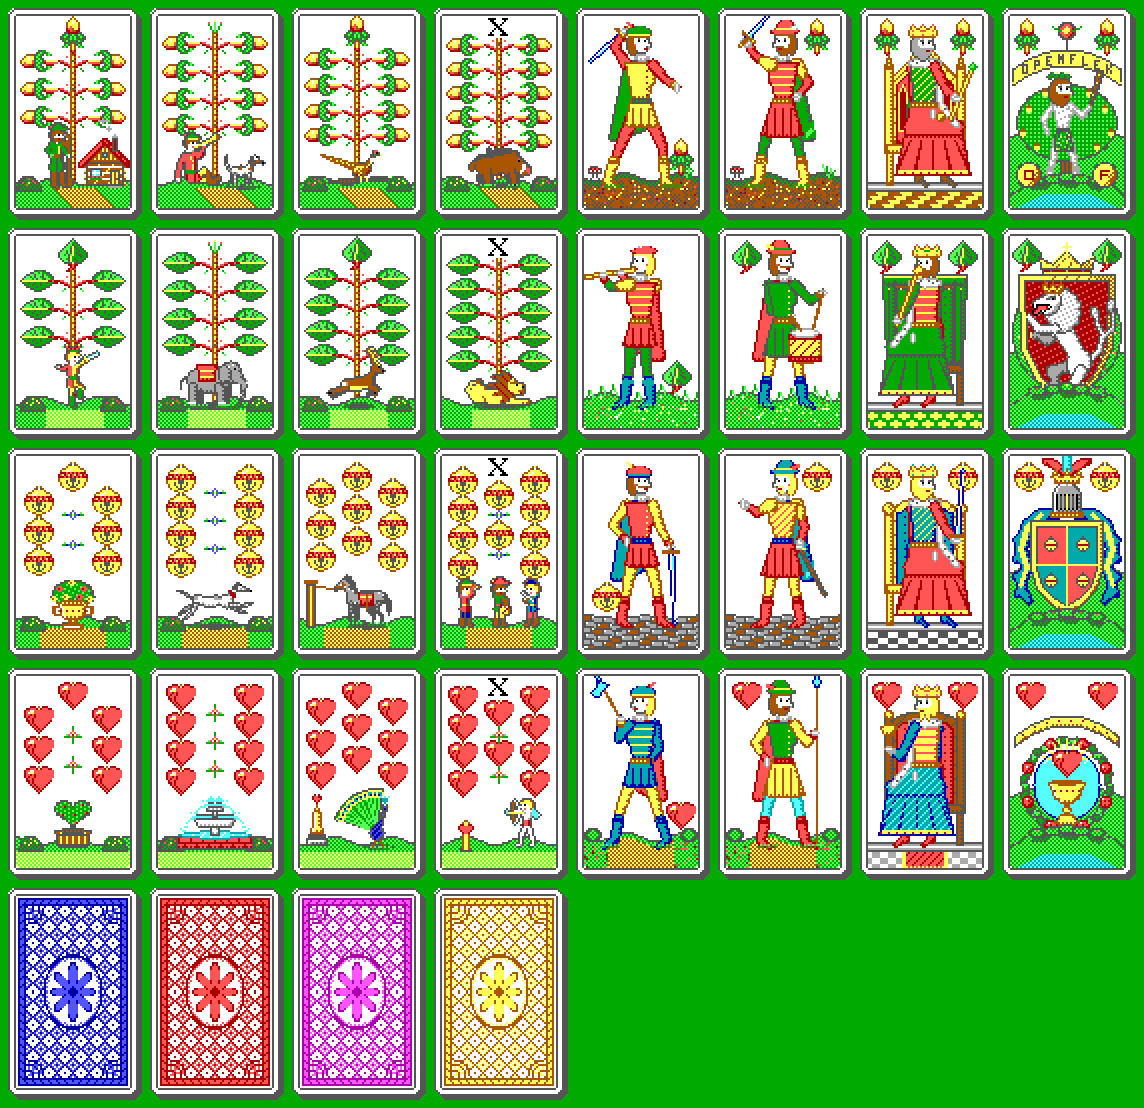
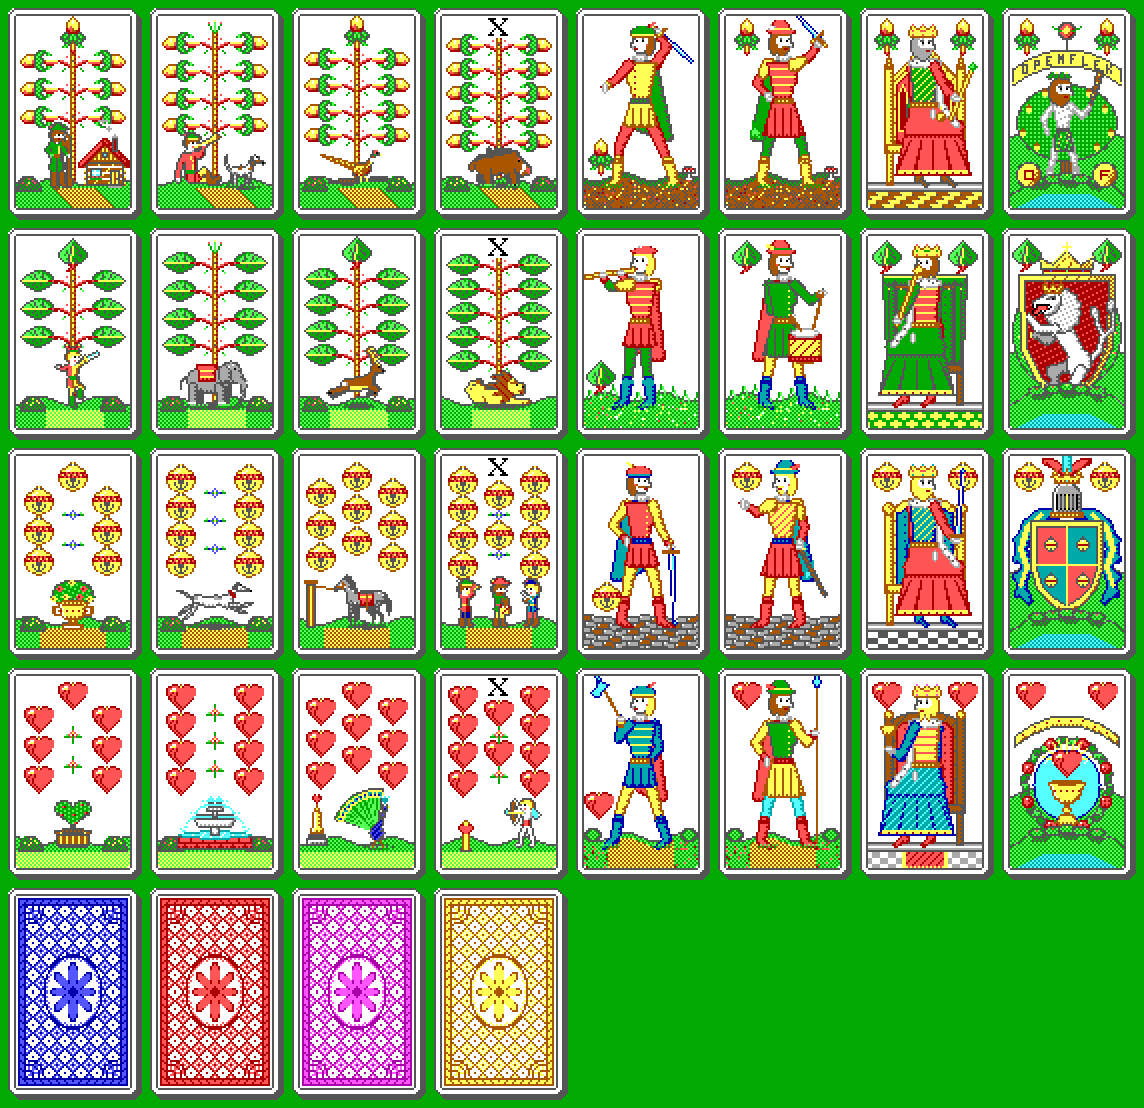
move unter and ober suit signs to the left so they show in a fanned hand

diff --git a/scripts/deck_gen/courts.py b/scripts/deck_gen/courts.py
@@ -143,10 +143,8 @@ def draw_pedestal(c, suit, is_king=False):
 
 def _ground_details(c, suit):
     """Small things growing or lying at the edges of each suit's ground."""
-    if suit == 0:  # a toadstool and a fern on the forest floor
-        c.blit_sprite(['.8888.', '84c4c48', '8f4f4f8', '8888888', '..8f8..', '..8f8..', '.8fff8.'], 4, 77)
-        for k in range(4):
-            c.line(53, 83, 50 + k * 2, 76 + k, GREEN if k & 1 else LIGHT_GREEN)
+    if suit == 0:  # a toadstool at the right edge, clear of the Unter's suit sign
+        c.blit_sprite(['.8888.', '84c4c48', '8f4f4f8', '8888888', '..8f8..', '..8f8..', '.8fff8.'], 51, 77)
     elif suit == 1:  # tall grass blades along the meadow's edge
         for x in range(3, 58, 3):
             y = 82 + int(round(math.sin((x + 9) * 0.22) * 2.0))
@@ -197,7 +195,8 @@ def _standing(c, suit, flip, look, arms, legs, back_props=None, front_props=None
 def draw_unter(c, suit):
     """Spodek: young huntsmen and musicians in caps, the suit sign low beside the legs."""
     draw_pedestal(c, suit)
-    if suit == 0:  # Acorn: swinging a sword up over his head, striding right
+    # The suit sign sits on the left, where it still shows when the hand fans the cards.
+    if suit == 0:  # Acorn: swinging a sword up over his head, striding left
         look = dict(
             cape=GREEN,
             swing=-9,
@@ -219,8 +218,8 @@ def draw_unter(c, suit):
         def blade(r):
             F.sword(r, (22, 9), (5, 24))
 
-        _standing(c, suit, False, look, arms, legs, back_props=blade)
-        draw_suit(c, 0, 50, 72, 'v')
+        _standing(c, suit, True, look, arms, legs, back_props=blade)
+        draw_suit(c, 0, 10, 72, 'v')
 
     elif suit == 1:  # Leaf: playing a transverse flute, facing left
         look = dict(
@@ -253,7 +252,7 @@ def draw_unter(c, suit):
             F.draw_hand(r, 49, 21, grip=True)
 
         _standing(c, suit, True, look, arms, legs, front_props=flute)
-        draw_suit(c, 1, 48, 72, 'v')
+        draw_suit(c, 1, 10, 72, 'v')
 
     elif suit == 2:  # Bell: hand on hip, the other resting on a sword planted point-down
         look = dict(
@@ -306,13 +305,14 @@ def draw_unter(c, suit):
             r.part().poly([(50, 3), (53, 0), (52, 6)]).paint(LIGHT_CYAN, None, outline=BLUE)
 
         _standing(c, suit, True, look, arms, legs, back_props=halberd)
-        draw_suit(c, 3, 50, 72)
+        draw_suit(c, 3, 9, 67)
 
 
 def draw_ober(c, suit):
     """Svršek: bearded men in broad plumed hats, the suit sign high in a corner."""
     draw_pedestal(c, suit)
-    if suit == 0:  # Acorn: raising a sword forward, fist on hip, facing left
+    # The suit sign sits top left, where it still shows when the hand fans the cards.
+    if suit == 0:  # Acorn: raising a sword forward, fist on hip, facing right
         look = dict(
             cape=GREEN,
             swing=-9,
@@ -337,8 +337,8 @@ def draw_ober(c, suit):
         def blade(r):
             F.sword(r, (49, 14), (37, 1))
 
-        _standing(c, suit, True, look, arms, legs, front_props=blade, pose=OBER_COAT)
-        draw_suit(c, 0, 47, 12, 'v')
+        _standing(c, suit, False, look, arms, legs, front_props=blade, pose=OBER_COAT)
+        draw_suit(c, 0, 12, 12, 'v')
 
     elif suit == 1:  # Leaf: drummer with the drum slung at his hip
         look = dict(
@@ -401,7 +401,7 @@ def draw_ober(c, suit):
             r.part().capsule(19, 48, 25, 46, 0.7).fill(YELLOW)
 
         _standing(c, suit, True, look, arms, legs, back_props=scabbard, pose=OBER_COAT)
-        draw_suit(c, 2, 47, 12)
+        draw_suit(c, 2, 12, 12)
 
     else:  # Heart: spear upright in one hand, the other on his hip
         look = dict(
